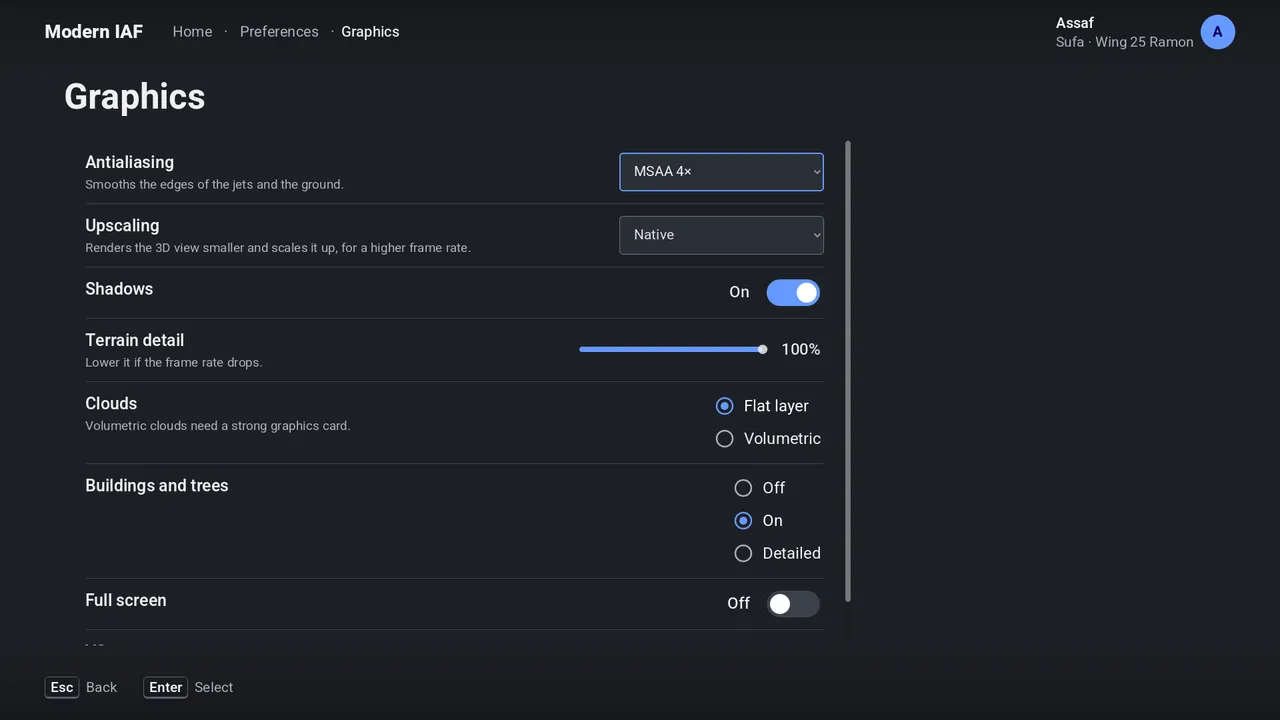
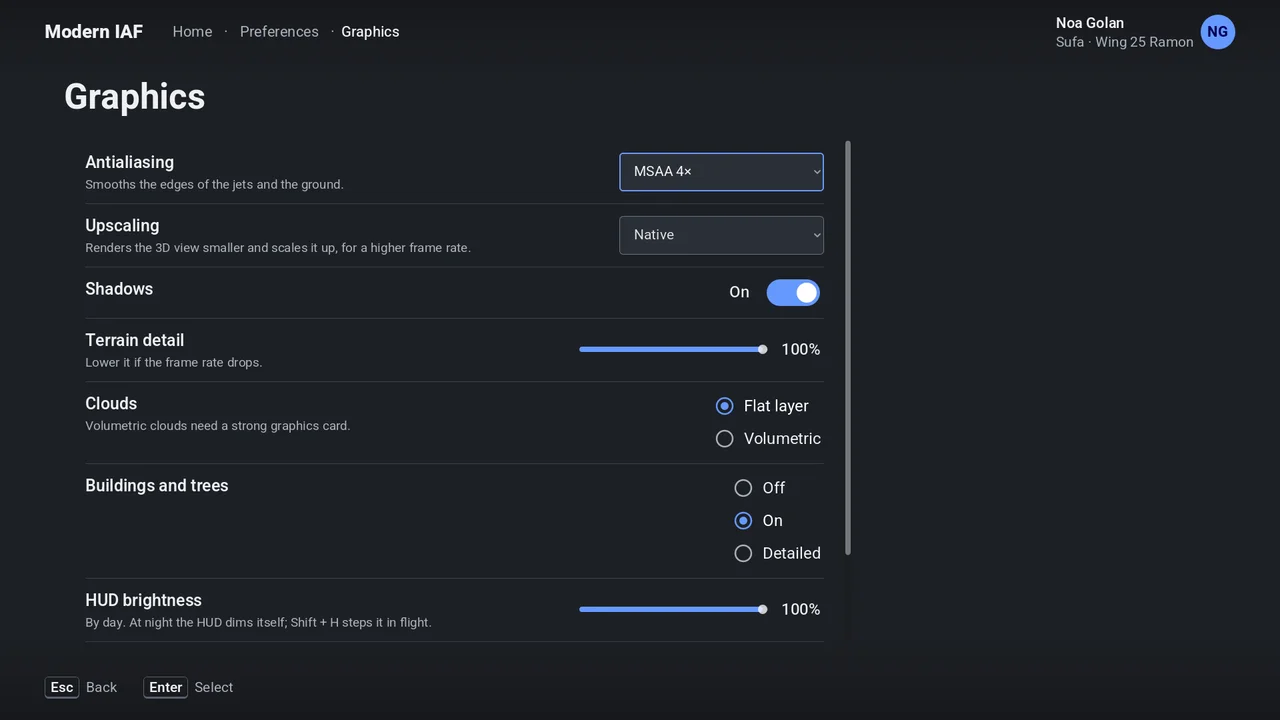
Modern IAF's HUD: the real F-16's P43 green, bright by day and dimmed at night, adjustable (the user's A10 verdict, 2026-11-09: "fix the green of the HUD, should be adjustable I think in real")
The look study measured the sim's HUD at the original's darkest colour index (0/36/0), painted over the scene, so it read
darker than bright ground. With the new Settings.hud_daylight() hook (false in shared/settings.gd, true in
iaf-2026/sim_settings.gd), the sim's HUD:
- draws in the P43 green (543 nm, 40/255/50) at full level with the sun 10° or more above the horizon, falling to a
  night floor of 136/255 below that, AUTO-like, with no jump at dawn or dusk;
- blends additively, so the symbols add light over the ground, with a faint halo (4x the stroke at 22 %) and a 0.08°
  stroke;
- shows the combiner glass at 14 % with a cool tint;
- steps its brightness in eighths with Shift+H ("Step HUD brightness"), as the real jet's SYM wheel;
- takes its day level from a new Preferences -> Graphics "HUD brightness" slider (100 % by default, remembered;
  Hebrew "בהירות ה־HUD").
The F-35I's helmet display keeps its own green and has no combiner, but also blends additively.

The original game is unchanged: its colours, its 0.6 px pen, normal blending, the 11-colour key and the 7 % glass
(test_hud checks it). No Extras row for now. The combiner's edge line needs a glb rebuild and stays open.

No measurable cost on the Iris Xe. Tests: test_hud (new checks: P43 by day, the night floor, the original unchanged),
test_cockpit3d, iaf-2026 test_front_end, test_mvp (new _hud_light check). An Opus review found no bugs (VERDICT MERGE).
[…]

diff --git a/docs/real-hud.md b/docs/real-hud.md
@@ -18,7 +18,8 @@ Colour: the HUD's (H cycles the original's eleven, the darkest green first), unl
 F-35's helmet, the DASH). At the cockpit's night (`cockpit.night`, the rule that darkens the panel; 2D and 3D) the
 greens are no darker than the fifth, 0, 136, 0 (`hud.gd` `REAL_NIGHT_GREEN`, ours, 2026-11-02): the darkest, the
 run's first, all but vanished against the night sky, where a real HUD's brightness follows the scene. The original
-HUD keeps the colour H set.
+HUD keeps the colour H set. Modern IAF draws its HUD in the P43 green, added to the scene's light
+([Modern IAF's HUD light](#modern-iafs-hud-light)).
 
 Sources are footnotes; a simulator source says so in its footnote. "Inferred" marks our own reconstruction (from
 the era and the maker, recorded in docs/deviations.md); "open" marks what no source gives.
@@ -869,6 +870,40 @@ its scale. The original HUD keeps the original layout.
   - Not drawn: a horizon, shoot cue, RWR (radar warning receiver) symbols, declutter. Blanking is implied: the helmet
     set shows only while looking aside.
 
+### Modern IAF's HUD light
+
+Modern IAF only (`Settings.hud_daylight()`, true in `iaf-2026/sim_settings.gd`, false in `shared/settings.gd`;
+Approvals A10, 2026-11-09). The original game keeps its eleven colours from the darkest green, drawn over the scene,
+and its 0.6 px pen. The study behind it: the look study's cockpit proposal, finding 1.
+
+- **Colour.** The F-16's CRT displays use P43 phosphor, a narrow line at 543 nm[^dtic-p43]. Its nearest sRGB colour is
+  40 / 255 / 50 (`hud.gd` `P43_GREEN`; inferred from the CIE 1931 chromaticity of 543 nm, just outside the gamut).
+- **Brightness.** The pilot sets the real HUD's brightness with the SYM wheel; AUTO follows the ambient
+  light[^hoggit-icp]. Ours: the green at `Settings.hud_brightness` (Preferences → Graphics "HUD brightness", 100 % by
+  default) by day, falling to the night floor 136 / 255 (`REAL_NIGHT_GREEN`'s, or the day level when dimmer) as the
+  sun sets: full with the sun 10° up or more, the floor at night (`hud.gd` `p43()`, `daylight()`; inferred). The HUD
+  key (Shift + H) steps the level in eighths, from full to the dimmest eighth and up again.
+- **Blending.** The HUD and its outer layer draw through `hud_glass.gdshader` with `render_mode blend_add`
+  (`cockpit.gd` `_additive_glass`): the symbols add light to the scene, as a combiner does, so over sunlit ground they
+  can only brighten it. The original HUD's green, drawn over the scene, read darker than the ground behind it.
+- **Stroke and halo.** The stroke is 0.08° (`PEN_DEG`, 0.96 px per HUD pixel: 1.5 px in an 85° view across 1,920 px;
+  inferred from an F-16 HUD video's[^gcas-video] 1–2 px of 720 across about 30°). Under every line, circle, arc and text of the
+  Real HUD lies a halo four times the stroke's width at 22 % (`HALO_WIDE`, `HALO_ALPHA`): a collimated stroke's soft
+  glow, small to the eye (inferred).
+- **Combiner glass.** 14 % opaque in a faint cool magenta (0.62 / 0.56 / 0.72) with specular 0.8, so it is slightly
+  darker than the sky and reflects a little of it (`cockpit3d.gd`; the green its coating reflects is missing from
+  what passes through, inferred). The original game's glass stays 7 %. The glass's edge line needs a rebuild of
+  `f16.glb` (`tools/f16d/cockpit3d.py` `hud_edge`): open.
+- **Unchanged:** the F-35I's helmet and the DASH keep their own green (a Real HUD frame's own colour comes first).
+  The sprite font's ladder labels and the original HUD's weapon symbols draw no halo (the sim draws the Real HUD).
+- **Cost on the Iris Xe:** none measurable. The Shoham pose, 180 frames, vsync off, the light off and on alternated:
+  36.5 / 46.6 fps off, 46.6 / 39.4 fps on, inside the runs' own spread.
+
+Before and after at the look study's Shoham pose (HDG 100, 240 m), 16:58 and 22:00, in the Sufa's 3D cockpit:
+
+![The HUD at 16:58: before (the darkest green over the scene) and after (P43, added, with the halo)](../iaf-2026/docs/pictures/cockpit/hud_light_day.jpg)
+![The HUD at 22:00: before and after (the night floor)](../iaf-2026/docs/pictures/cockpit/hud_light_night.jpg)
+
 [^dash34]: T.O. GR1F-16CJ-34-1-1, Hellenic AF F-16C/D Block 50 avionics and weapons delivery (dash-34), 1997: HUD
     chapter pp. 1-158..1-183 (fig. 1-115 "HUD Window and Scale Positions"), A-A gun pp. 403-411, A-A missiles
     pp. 413-423, A-G pp. 441-458: https://falcon.blu3wolf.com/Docs/HAF-F16-34.pdf
@@ -1021,3 +1056,10 @@ its scale. The original HUD keeps the original layout.
 [^dcs-tti]: DCS forum, "CBU-105 HUD symbology question" (2022), secondary: the F-16's HUD window for the JDAM, JSOW,
     WCMD and Paveway III shows the time to impact after the release
     (<https://forum.dcs.world/topic/304597-cbu-105-hud-symbology-question>)
+[^dtic-p43]: Wright-Patterson AFB paper on display image quality: the F-16 C/D's MFD is a monochrome green P-43 CRT,
+    peak 543 nm. DTIC ADP005791: https://apps.dtic.mil/sti/pdfs/ADP005791.pdf
+[^hoggit-icp]: Hoggit wiki, "Instrument Panel" (DCS F-16C): the HUD's DAY / AUTO / NIGHT symbology brightness,
+    simulator documentation: https://wiki.hoggitworld.com/view/Instrument_Panel
+[^gcas-video]: "Auto-GCAS Saves Unconscious F-16 Pilot—Declassified USAF Footage", HUD video of an Arizona ANG F-16,
+    2016, public domain (USAF), Wikimedia Commons:
+    https://commons.wikimedia.org/wiki/File:Auto-GCAS_Saves_Unconscious_F-16_Pilot%E2%80%94Declassified_USAF_Footage.webm

diff --git a/iaf-2026/docs/cockpit.md b/iaf-2026/docs/cockpit.md
@@ -129,6 +129,29 @@ The credit lines the sim's setup wizard (Attributions) and its credits roll show
 Heebo Project Authors, SIL Open Font License 1.1"; for Hershey, the two acknowledgements its terms ask for
 (`iaf-2026/data/fonts/HERSHEY.txt`, [docs/credits.md](../../docs/credits.md) "Modern IAF's font").
 
+### 5.1 The HUD's light (2026-11-09)
+
+The user's approval (Approvals A10, proposal 7): "fix the green of the HUD, should be adjustable I think in real".
+`Settings.hud_daylight()` is true in the sim ([docs/real-hud.md](../../docs/real-hud.md#modern-iafs-hud-light) has
+the sources and the values):
+- the HUD in the P43 green, 40 / 255 / 50, at the day level by day, falling to the night floor (136 / 255 of it) as
+  the sun sets;
+- the symbols added to the scene's light (blend_add), a faint halo under each, a 0.08° stroke;
+- the combiner glass 14 % opaque in a faint cool magenta. The glass's edge line needs a rebuild of `f16.glb`: open;
+- the day level is Preferences → Graphics "HUD brightness" ([front-end.md](front-end.md) §4), stored in the sim's
+  settings; Shift + H ("Step HUD brightness", `data/keys.json` record 46, the laptop map the same) steps it in
+  eighths in flight, as the real jet's SYM wheel.
+
+The F-35I's helmet keeps its own green. The Sufa at the look study's Shoham pose (HDG 100, 240 m), before and after,
+16:58 and 22:00:
+
+![The HUD at 16:58: before and after](pictures/cockpit/hud_light_day.jpg)
+![The HUD at 22:00: before and after](pictures/cockpit/hud_light_night.jpg)
+
+`tests/godot/test_hud.gd` checks the colours (the P43 green by day, the floor at night, the original game's darkest
+green at its start); `iaf-2026/tests/test_mvp.gd` `_hud_light` checks them in the sim's cockpit with the key's steps,
+the additive blend and the glass.
+
 ## 6. Tests and pictures
 - `tests/godot/test_cockpit_no_panel.gd`: the profile on the sim's own cockpit dirs (`iaf-sim own`'s), the Sufa, the
   Barak and the F-35I: no panel art loaded, every display file from the sim's dir, the 3D cockpit in the jet's own
@@ -153,9 +176,9 @@ strip ("Esc Pause menu") is part of the view.
 What each view shows, against the cockpit photos the docs use (docs/f16i.md, docs/f35i.md, docs/cockpit.md
 "3D cockpit"):
 - **Ahead (the F-16s):** the HUD's symbology in Hershey Simplex on the combiner, both MFDs live, the ICP, the DED and
-  the RWR scope; no 2D art. As the photos: the frame, the ICP over the two MFDs. By day the HUD's green is the
-  original's darkest (the Real HUD's day colour, the same as the original game's 3D cockpit); at night it is lifted
-  and the flood light and backlit labels are on.
+  the RWR scope; no 2D art. As the photos: the frame, the ICP over the two MFDs. These pictures predate the
+  HUD's light (§5.1): by day the HUD's green is the original's darkest; at night it is lifted and the flood light
+  and backlit labels are on.
 - **Left and right (the F-16s):** the side consoles under the canopy sill, the DASH helmet's cue and its numbers on
   the canopy. As the photos' consoles; the panels are FlightGear's flat sheet (no depth in the knobs).
 - **Back (the F-16s):** the seat's headrest, the rear cockpit's helmet, the wing with the AIM-9Ms on 9, 8 and 7, the

diff --git a/iaf-2026/docs/status.md b/iaf-2026/docs/status.md
@@ -48,6 +48,10 @@ What works and what is open, by work item ([plan.md](plan.md)). Newest first.
   longer asks for the install's `menu/joy` ([front-end.md](front-end.md) §9). On macOS the keys start from the
   laptop map, no numpad: the rudder on Z / X, the snap views on Alt + 1–9 (§9.1). `test_devices.gd`, the M0 probe
   with a fake joystick.
+- **The HUD's light (2026-11-09, Approvals A10):** the F-16s' HUD in the P43 green, added to the scene's light,
+  bright by day and dimmed to a night floor as the sun sets, with a faint halo, a 0.08° stroke and the combiner glass
+  at 14 %; Preferences → Graphics "HUD brightness" sets the day level and Shift + H steps it
+  ([cockpit.md](cockpit.md) §5.1). `test_hud.gd`, `test_mvp.gd`. Open: the glass's edge line (an `f16.glb` rebuild).
 - **The ILS bars glide (2026-11-09, the Mac play test's finding 24):** the HUD's ILS lines sit at the exact
   deviation instead of the original's whole-pixel steps, which jumped about 5.5 screen pixels at a time on the 3D
   HUD glass ([real-hud.md](../../docs/real-hud.md#what-ours-draws-status)). `test_mvp.gd` checks all three jets.

diff --git a/iaf-2026/docs/front-end.md b/iaf-2026/docs/front-end.md
@@ -114,7 +114,9 @@ centreline in the roll.
   none of them is a row. The weather is the mission's (no Rain row). Volumetric clouds are greyed without a
   RenderingDevice. Graphics → "Buildings and trees" is the shared Scenery setting (Off / On / Detailed, On by
   default, [scenery.md](scenery.md) §6); without setup's optional scenery step it is greyed at Off, with a note
-  naming that step.
+  naming that step. Graphics → "HUD brightness" (a slider, 100 % by default; `Settings.hud_brightness`, stored in
+  the sim's settings) sets the HUD's day level; the HUD dims itself at night, and the HUD key (Shift + H, "Step HUD
+  brightness") steps the same value in eighths in flight ([cockpit.md](cockpit.md) §5.1).
 
 ## 5. The photos
 
